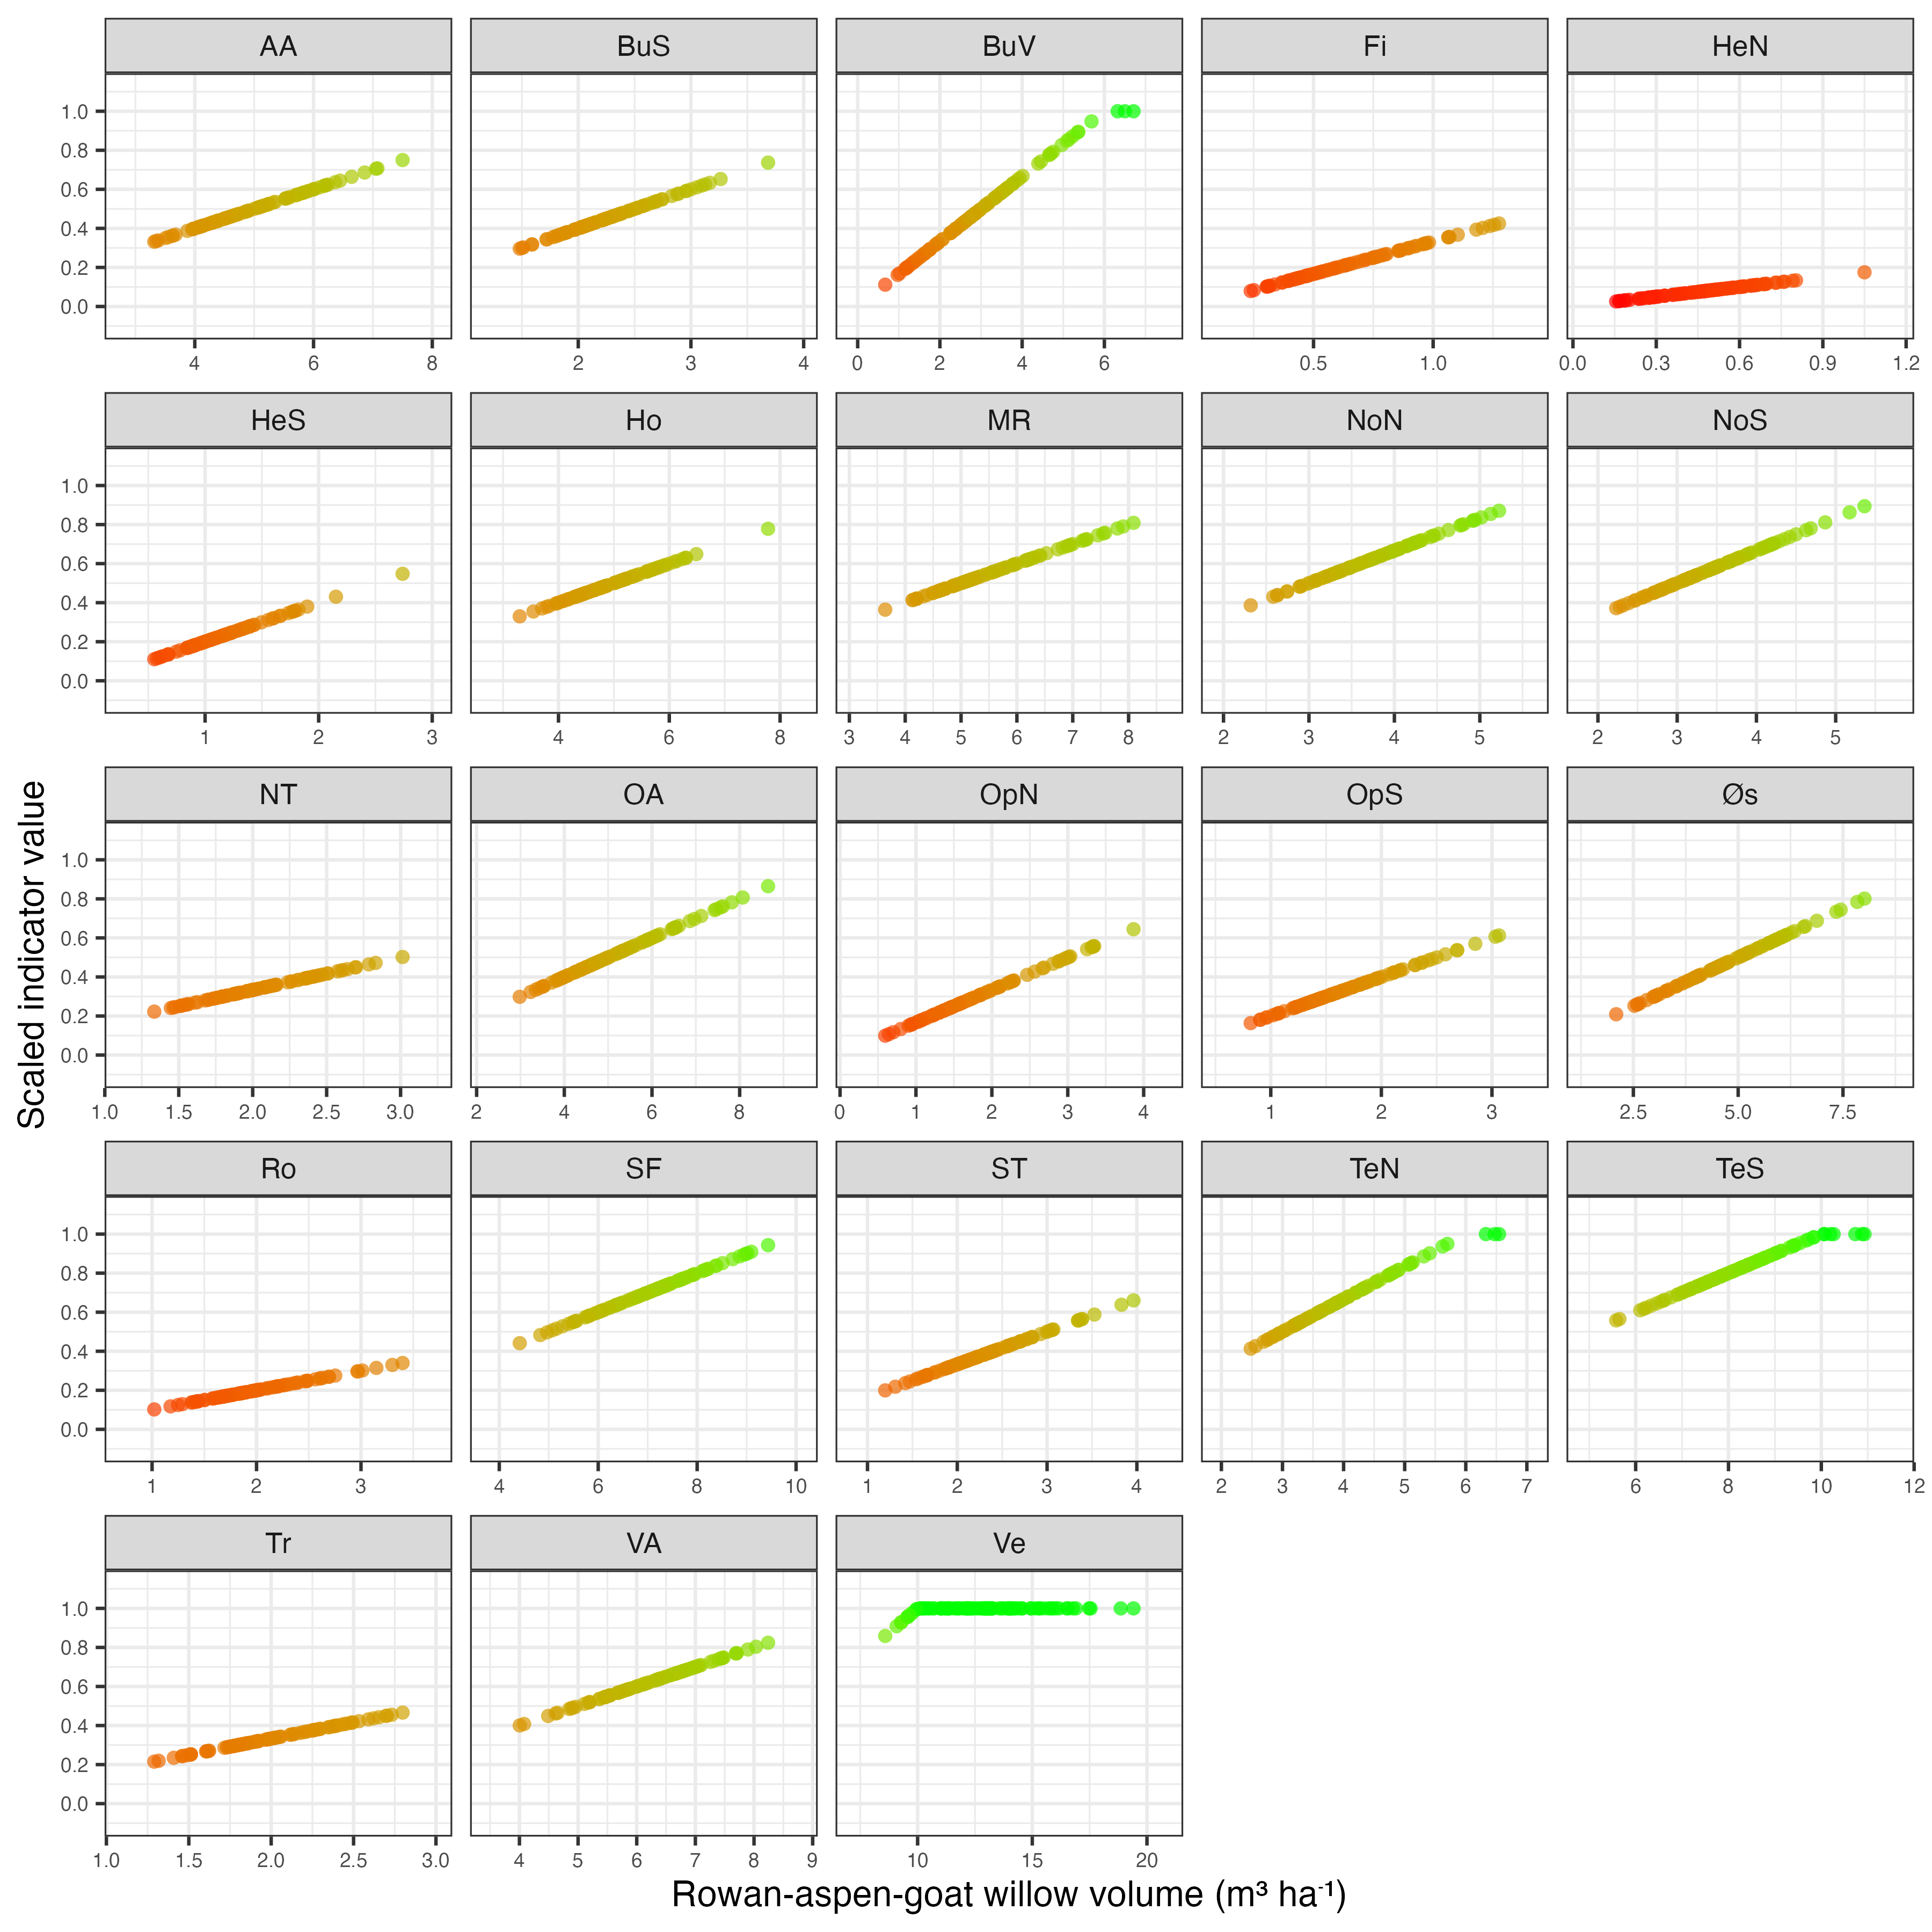
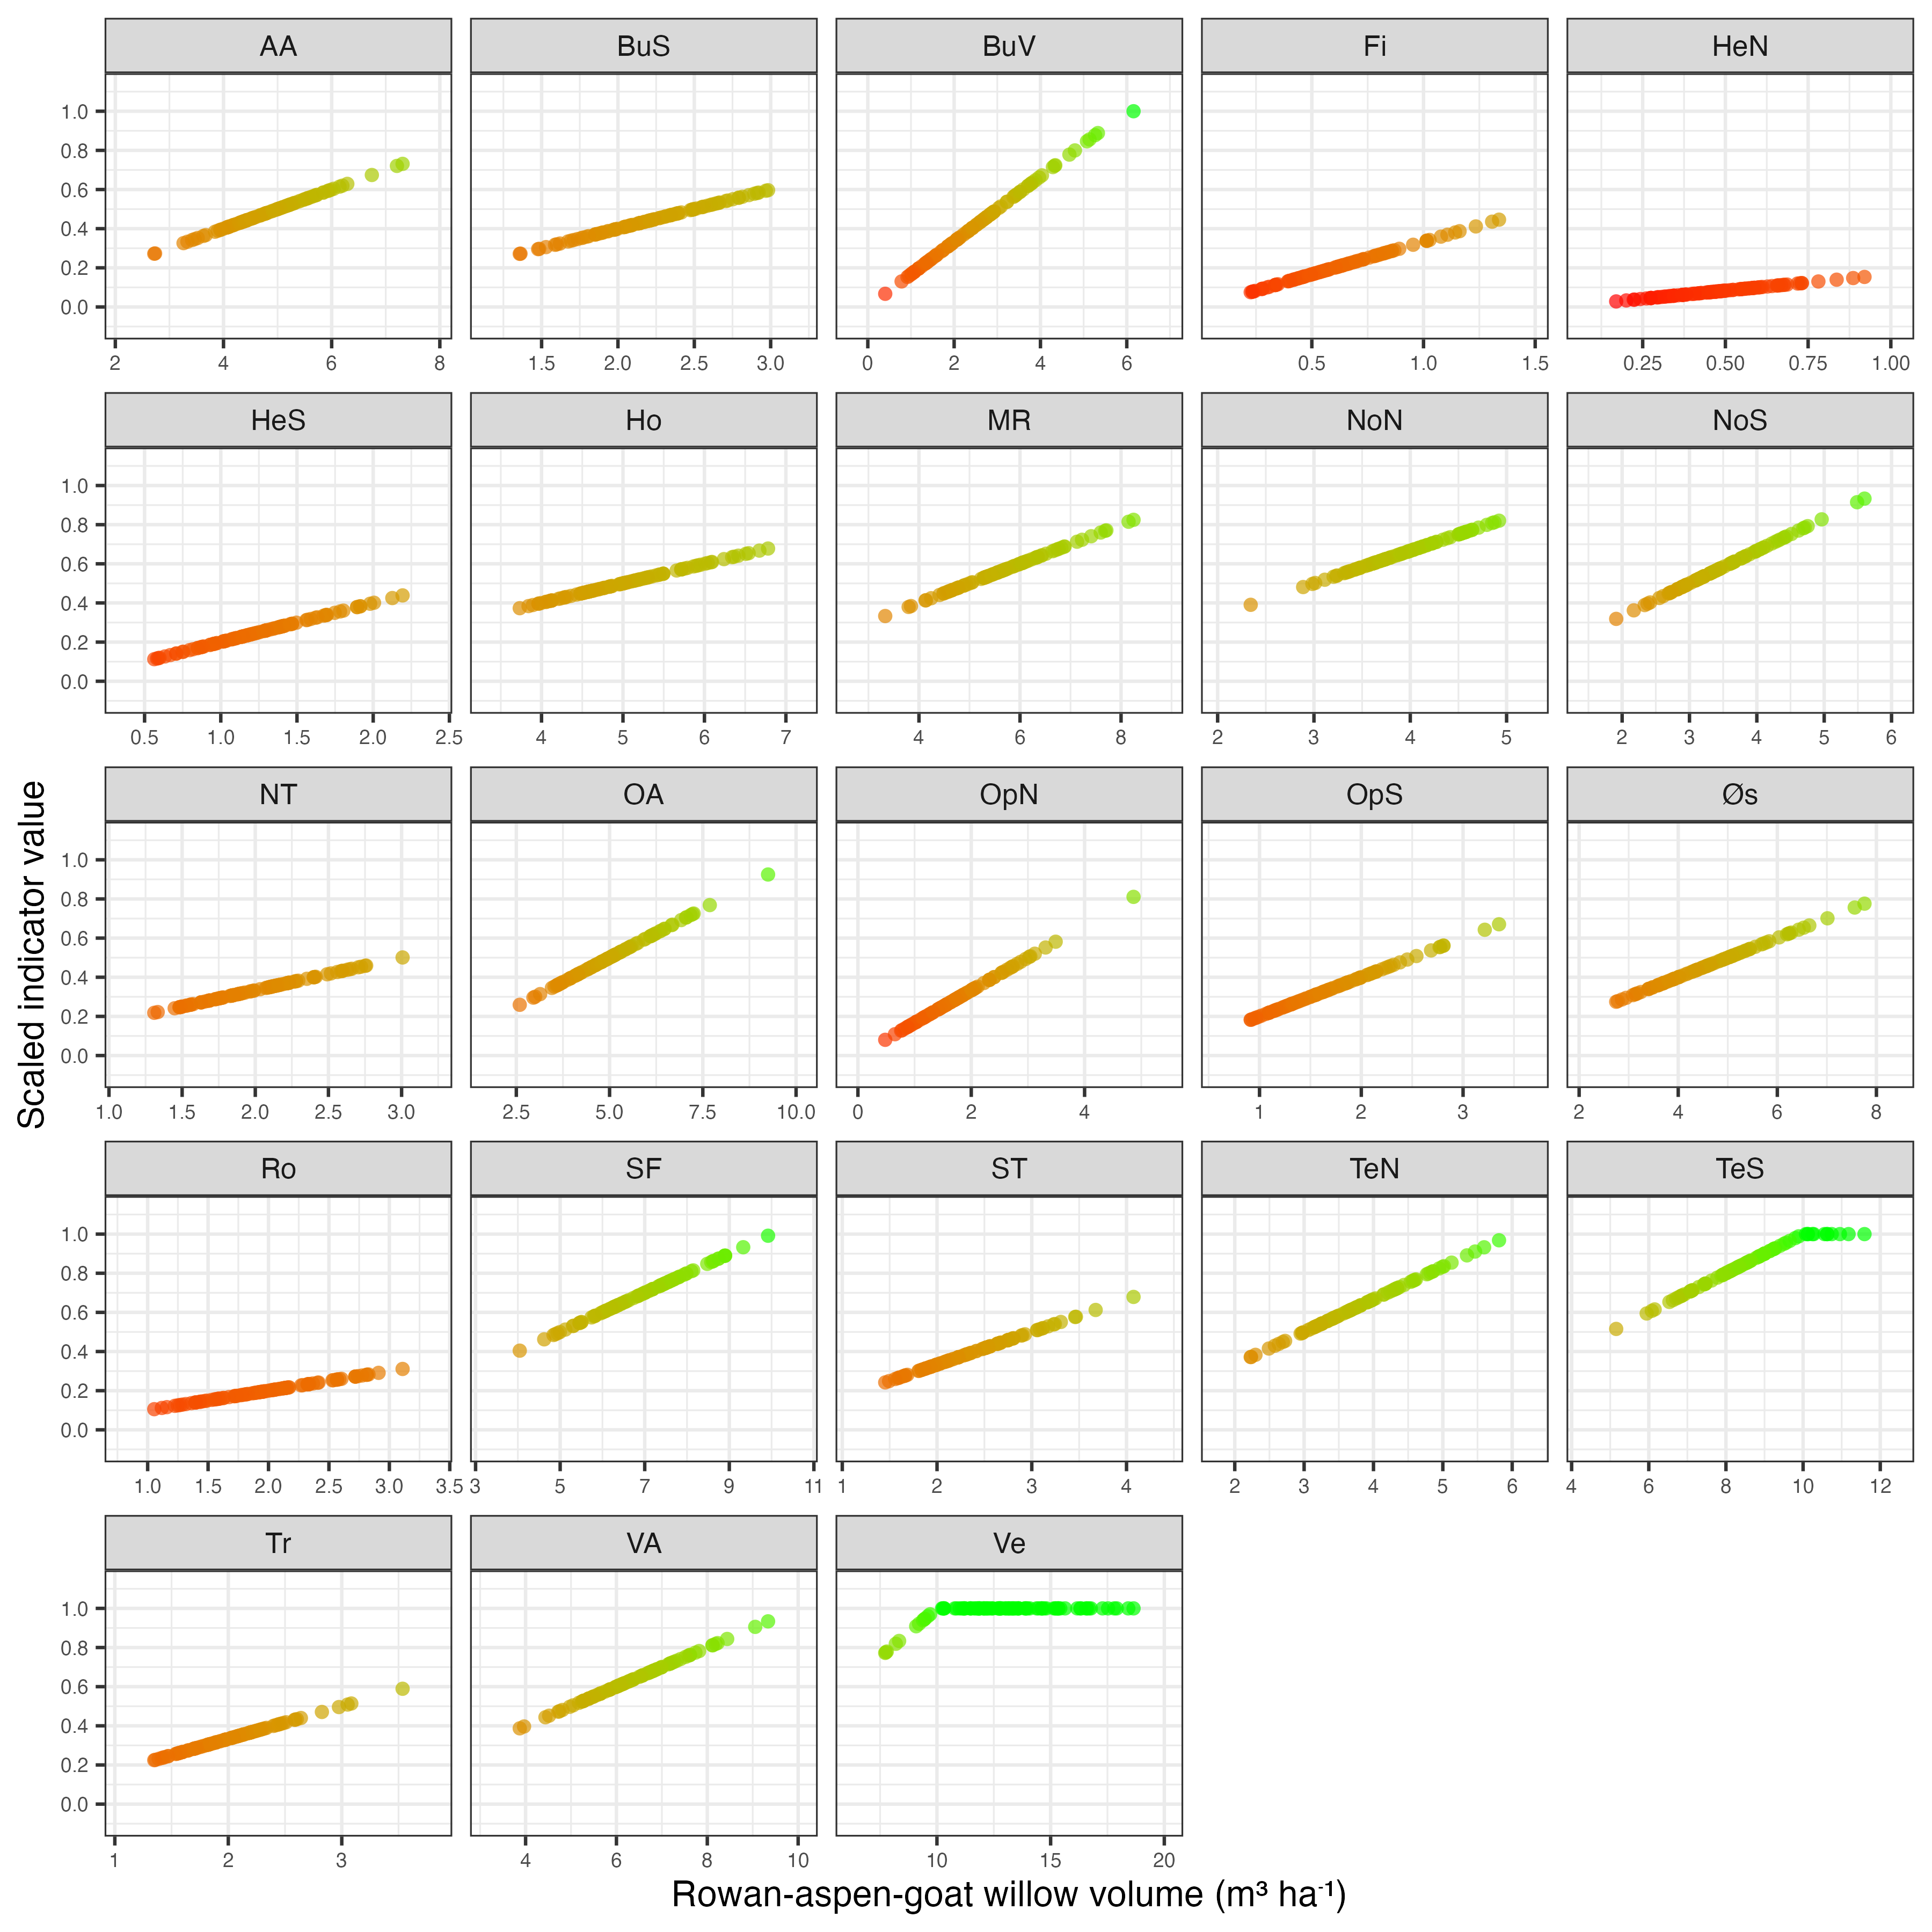
Update author information and citation format in NO_ROSE_001 files
- Added authors Ken Olaf Storaunet and Ulrika Jansson Asplund with their affiliations in both HTML and QMD files.
- Updated the recommended citation format to reflect the new author order.
- Revised data loading code to use the latest data file and improved comments for clarity.
- Enhanced summary table captions to include confidence intervals for better data representation.

diff --git a/R/NO_ROSE_001.html b/R/NO_ROSE_001.html
@@ -6,8 +6,9 @@
 
 <meta name="viewport" content="width=device-width, initial-scale=1.0, user-scalable=yes">
 
+<meta name="author" content="Ken Olaf Storaunet">
+<meta name="author" content="Ulrika Jansson Asplund">
 <meta name="author" content="Erik Framstad">
-<meta name="author" content="Ken Olav Storaunet">
 <meta name="author" content="Oliver Snoksrud">
 <meta name="author" content="Aud Helen Halbritter">
 <meta name="dcterms.date" content="2026-05-07">
@@ -2546,7 +2547,15 @@ border: 0;
   <div class="quarto-title-meta-heading">Affiliations</div>
   
     <div class="quarto-title-meta-contents">
-    <p class="author">Erik Framstad <a href="mailto:[email redacted]" class="quarto-title-author-email"><i class="bi bi-envelope"></i></a> </p>
+    <p class="author">Ken Olaf Storaunet </p>
+  </div>
+  <div class="quarto-title-meta-contents">
+        <p class="affiliation">
+            Norwegian Institute of Bioeconomy Research
+          </p>
+      </div>
+    <div class="quarto-title-meta-contents">
+    <p class="author">Ulrika Jansson Asplund </p>
   </div>
   <div class="quarto-title-meta-contents">
         <p class="affiliation">
@@ -2554,11 +2563,11 @@ border: 0;
           </p>
       </div>
     <div class="quarto-title-meta-contents">
-    <p class="author">Ken Olav Storaunet </p>
+    <p class="author">Erik Framstad <a href="mailto:[email redacted]" class="quarto-title-author-email"><i class="bi bi-envelope"></i></a> </p>
   </div>
   <div class="quarto-title-meta-contents">
         <p class="affiliation">
-            Norwegian Institute of Bioeconomy Research
+            Norwegian Institute for Nature Research
           </p>
       </div>
     <div class="quarto-title-meta-contents">
@@ -2656,7 +2665,7 @@ Caused by warning:
 </div>
 </div>
 <blockquote class="blockquote">
-<p><strong>Recommended citation</strong>: Framstad, E., Storaunet, K. O., Snoksrud, O. and Halbritter, A. H. 2026. Rowan-aspen-goat willow volume (ID(s): NO_ROSE_001) v. 000.001. ecRxiv: https://github.com/NINAnor/ecRxiv/tree/main/indicators/NO_ROSE_001</p>
+<p><strong>Recommended citation</strong>: Storaunet, K. O., Jansson Asplund, U., Framstad, E., Snoksrud, O., and Halbritter, A. H. 2026. Rowan-aspen-goat willow volume (ID(s): NO_ROSE_001) v. 000.001. ecRxiv: https://github.com/NINAnor/ecRxiv/tree/main/indicators/NO_ROSE_001</p>
 </blockquote>
 <div class="callout callout-style-default callout-tip no-icon callout-titled">
 <div class="callout-header d-flex align-content-center collapsed" data-bs-toggle="collapse" data-bs-target=".callout-1-contents" aria-controls="callout-1" aria-expanded="false" aria-label="Toggle callout">
@@ -2905,27 +2914,14 @@ For example, and indicator called 'Trenching in mires' could be made to represen
 <div class="cell">
 <details class="code-fold">
 <summary>Load data</summary>
-<div class="code-copy-outer-scaffold"><div class="sourceCode cell-code" id="cb2"><pre class="sourceCode r code-with-copy"><code class="sourceCode r"><span id="cb2-1"><a href="#cb2-1" aria-hidden="true" tabindex="-1"></a><span class="co"># Load main data file</span></span>
-<span id="cb2-2"><a href="#cb2-2" aria-hidden="true" tabindex="-1"></a><span class="co"># This export wraps each physical line in an extra pair of double quotes, so a</span></span>
-<span id="cb2-3"><a href="#cb2-3" aria-hidden="true" tabindex="-1"></a><span class="co"># single read_csv() sees one column spanning the whole file. Read once as one</span></span>
-<span id="cb2-4"><a href="#cb2-4" aria-hidden="true" tabindex="-1"></a><span class="co"># character column per line (readr unwraps the outer quotes), then parse the</span></span>
-<span id="cb2-5"><a href="#cb2-5" aria-hidden="true" tabindex="-1"></a><span class="co"># inner CSV text.</span></span>
-<span id="cb2-6"><a href="#cb2-6" aria-hidden="true" tabindex="-1"></a>lsk_inner_csv <span class="ot">&lt;-</span> <span class="fu">read_csv</span>(</span>
-<span id="cb2-7"><a href="#cb2-7" aria-hidden="true" tabindex="-1"></a>  <span class="fu">here</span>(<span class="st">&quot;data/LSK_data_okologisk_tilstand_2026.csv&quot;</span>),</span>
-<span id="cb2-8"><a href="#cb2-8" aria-hidden="true" tabindex="-1"></a>  <span class="at">col_names =</span> <span class="cn">FALSE</span>,</span>
-<span id="cb2-9"><a href="#cb2-9" aria-hidden="true" tabindex="-1"></a>  <span class="at">show_col_types =</span> <span class="cn">FALSE</span>,</span>
-<span id="cb2-10"><a href="#cb2-10" aria-hidden="true" tabindex="-1"></a>  <span class="at">locale =</span> <span class="fu">locale</span>(<span class="at">encoding =</span> <span class="st">&quot;UTF-8&quot;</span>),</span>
-<span id="cb2-11"><a href="#cb2-11" aria-hidden="true" tabindex="-1"></a>  <span class="at">col_types =</span> <span class="fu">cols</span>(<span class="at">.default =</span> <span class="fu">col_character</span>())</span>
-<span id="cb2-12"><a href="#cb2-12" aria-hidden="true" tabindex="-1"></a>) <span class="sc">|&gt;</span></span>
-<span id="cb2-13"><a href="#cb2-13" aria-hidden="true" tabindex="-1"></a>  <span class="fu">pull</span>(<span class="dv">1</span>) <span class="sc">|&gt;</span></span>
-<span id="cb2-14"><a href="#cb2-14" aria-hidden="true" tabindex="-1"></a>  <span class="fu">paste</span>(<span class="at">collapse =</span> <span class="st">&quot;</span><span class="sc">\n</span><span class="st">&quot;</span>)</span>
-<span id="cb2-15"><a href="#cb2-15" aria-hidden="true" tabindex="-1"></a></span>
-<span id="cb2-16"><a href="#cb2-16" aria-hidden="true" tabindex="-1"></a>lsk_data_raw <span class="ot">&lt;-</span> <span class="fu">read_csv</span>(</span>
-<span id="cb2-17"><a href="#cb2-17" aria-hidden="true" tabindex="-1"></a>  <span class="fu">I</span>(lsk_inner_csv),</span>
-<span id="cb2-18"><a href="#cb2-18" aria-hidden="true" tabindex="-1"></a>  <span class="at">show_col_types =</span> <span class="cn">FALSE</span>,</span>
-<span id="cb2-19"><a href="#cb2-19" aria-hidden="true" tabindex="-1"></a>  <span class="at">locale =</span> <span class="fu">locale</span>(<span class="at">encoding =</span> <span class="st">&quot;UTF-8&quot;</span>)</span>
-<span id="cb2-20"><a href="#cb2-20" aria-hidden="true" tabindex="-1"></a>) <span class="sc">|&gt;</span></span>
-<span id="cb2-21"><a href="#cb2-21" aria-hidden="true" tabindex="-1"></a>  <span class="fu">clean_names</span>()</span></code></pre></div><button title="Copy to Clipboard" class="code-copy-button"><i class="bi"></i></button></div>
+<div class="code-copy-outer-scaffold"><div class="sourceCode cell-code" id="cb2"><pre class="sourceCode r code-with-copy"><code class="sourceCode r"><span id="cb2-1"><a href="#cb2-1" aria-hidden="true" tabindex="-1"></a>lsk_data_file <span class="ot">&lt;-</span> <span class="fu">here</span>(<span class="st">&quot;data/LSK_data_okologisk_tilstand_2026-06-03.csv&quot;</span>)</span>
+<span id="cb2-2"><a href="#cb2-2" aria-hidden="true" tabindex="-1"></a></span>
+<span id="cb2-3"><a href="#cb2-3" aria-hidden="true" tabindex="-1"></a>lsk_data_raw <span class="ot">&lt;-</span> <span class="fu">read_csv</span>(</span>
+<span id="cb2-4"><a href="#cb2-4" aria-hidden="true" tabindex="-1"></a>  lsk_data_file,</span>
+<span id="cb2-5"><a href="#cb2-5" aria-hidden="true" tabindex="-1"></a>  <span class="at">show_col_types =</span> <span class="cn">FALSE</span>,</span>
+<span id="cb2-6"><a href="#cb2-6" aria-hidden="true" tabindex="-1"></a>  <span class="at">locale =</span> <span class="fu">locale</span>(<span class="at">encoding =</span> <span class="st">&quot;UTF-8&quot;</span>)</span>
+<span id="cb2-7"><a href="#cb2-7" aria-hidden="true" tabindex="-1"></a>) <span class="sc">|&gt;</span></span>
+<span id="cb2-8"><a href="#cb2-8" aria-hidden="true" tabindex="-1"></a>  <span class="fu">clean_names</span>()</span></code></pre></div><button title="Copy to Clipboard" class="code-copy-button"><i class="bi"></i></button></div>
 </details>
 </div>
 </section>
@@ -2950,7 +2946,7 @@ For example, and indicator called 'Trenching in mires' could be made to represen
 <span id="cb3-6"><a href="#cb3-6" aria-hidden="true" tabindex="-1"></a>)</span></code></pre></div><button title="Copy to Clipboard" class="code-copy-button"><i class="bi"></i></button></div>
 </details>
 </div>
-<p>Next we filter the raw dataset to include both productive and unproductive forest plots (<code>arealtype</code> 1 and 12), remove records missing in <code>ros_10_prha</code>, and standardise the county names. Area-weighted values are created using <code>indicator_continuous_weighted = ros_10_prha * au_areal</code>.</p>
+<p>Next we filter the raw dataset to include both productive and unproductive forest plots (<code>arealtype</code> 1 and 12) and standardise the county names. Area-weighted values are created using <code>indicator_continuous_weighted = ros_10_prha * au_areal</code>.</p>
 <div class="cell">
 <details class="code-fold">
 <summary>Create derived variables</summary>
@@ -2959,31 +2955,29 @@ For example, and indicator called 'Trenching in mires' could be made to represen
 <span id="cb4-3"><a href="#cb4-3" aria-hidden="true" tabindex="-1"></a>    <span class="co"># productive and unproductive forest plots</span></span>
 <span id="cb4-4"><a href="#cb4-4" aria-hidden="true" tabindex="-1"></a>    arealtype <span class="sc">%in%</span> <span class="fu">c</span>(<span class="dv">1</span>, <span class="dv">12</span>)</span>
 <span id="cb4-5"><a href="#cb4-5" aria-hidden="true" tabindex="-1"></a>  ) <span class="sc">|&gt;</span></span>
-<span id="cb4-6"><a href="#cb4-6" aria-hidden="true" tabindex="-1"></a>  <span class="co"># remove records with missing data on rowan-aspen-goat willow volume</span></span>
-<span id="cb4-7"><a href="#cb4-7" aria-hidden="true" tabindex="-1"></a>  <span class="fu">filter</span>(<span class="sc">!</span><span class="fu">is.na</span>(ros_10_prha)) <span class="sc">|&gt;</span></span>
-<span id="cb4-8"><a href="#cb4-8" aria-hidden="true" tabindex="-1"></a>  <span class="fu">mutate</span>(</span>
-<span id="cb4-9"><a href="#cb4-9" aria-hidden="true" tabindex="-1"></a>    <span class="at">fylke_name =</span> region_fylke <span class="sc">|&gt;</span></span>
-<span id="cb4-10"><a href="#cb4-10" aria-hidden="true" tabindex="-1"></a>      stringr<span class="sc">::</span><span class="fu">str_remove</span>(<span class="st">&quot;^</span><span class="sc">\\</span><span class="st">d+-</span><span class="sc">\\</span><span class="st">d+</span><span class="sc">\\</span><span class="st">s+&quot;</span>) <span class="sc">|&gt;</span></span>
-<span id="cb4-11"><a href="#cb4-11" aria-hidden="true" tabindex="-1"></a>      stringr<span class="sc">::</span><span class="fu">str_remove</span>(<span class="st">&quot;^</span><span class="sc">\\</span><span class="st">d+</span><span class="sc">\\</span><span class="st">s*&quot;</span>) <span class="sc">|&gt;</span></span>
-<span id="cb4-12"><a href="#cb4-12" aria-hidden="true" tabindex="-1"></a>      stringr<span class="sc">::</span><span class="fu">str_squish</span>(),</span>
-<span id="cb4-13"><a href="#cb4-13" aria-hidden="true" tabindex="-1"></a>    <span class="at">county_part =</span> <span class="fu">assign_bbca_county_part</span>(fylke_name),</span>
-<span id="cb4-14"><a href="#cb4-14" aria-hidden="true" tabindex="-1"></a>    <span class="at">fylke_name_clean =</span> stringi<span class="sc">::</span><span class="fu">stri_trans_general</span>(</span>
-<span id="cb4-15"><a href="#cb4-15" aria-hidden="true" tabindex="-1"></a>      stringr<span class="sc">::</span><span class="fu">str_squish</span>(</span>
-<span id="cb4-16"><a href="#cb4-16" aria-hidden="true" tabindex="-1"></a>        <span class="fu">tolower</span>(</span>
-<span id="cb4-17"><a href="#cb4-17" aria-hidden="true" tabindex="-1"></a>          stringr<span class="sc">::</span><span class="fu">str_replace_all</span>(</span>
-<span id="cb4-18"><a href="#cb4-18" aria-hidden="true" tabindex="-1"></a>            <span class="fu">normalize_county_parts</span>(fylke_name),</span>
-<span id="cb4-19"><a href="#cb4-19" aria-hidden="true" tabindex="-1"></a>            <span class="st">&quot;[0-9.-]&quot;</span>,</span>
-<span id="cb4-20"><a href="#cb4-20" aria-hidden="true" tabindex="-1"></a>            <span class="st">&quot; &quot;</span></span>
-<span id="cb4-21"><a href="#cb4-21" aria-hidden="true" tabindex="-1"></a>          )</span>
-<span id="cb4-22"><a href="#cb4-22" aria-hidden="true" tabindex="-1"></a>        )</span>
-<span id="cb4-23"><a href="#cb4-23" aria-hidden="true" tabindex="-1"></a>      ),</span>
-<span id="cb4-24"><a href="#cb4-24" aria-hidden="true" tabindex="-1"></a>      <span class="st">&quot;Latin-ASCII&quot;</span></span>
-<span id="cb4-25"><a href="#cb4-25" aria-hidden="true" tabindex="-1"></a>    ),</span>
-<span id="cb4-26"><a href="#cb4-26" aria-hidden="true" tabindex="-1"></a>    <span class="at">region_code =</span> <span class="fu">assign_region_code</span>(fylke_name_clean),</span>
-<span id="cb4-27"><a href="#cb4-27" aria-hidden="true" tabindex="-1"></a>    <span class="at">region_name =</span> <span class="fu">assign_region_name</span>(region_code),</span>
-<span id="cb4-28"><a href="#cb4-28" aria-hidden="true" tabindex="-1"></a></span>
-<span id="cb4-29"><a href="#cb4-29" aria-hidden="true" tabindex="-1"></a>    <span class="at">indicator_continuous_weighted =</span> ros_10_prha <span class="sc">*</span> au_areal</span>
-<span id="cb4-30"><a href="#cb4-30" aria-hidden="true" tabindex="-1"></a>  )</span></code></pre></div><button title="Copy to Clipboard" class="code-copy-button"><i class="bi"></i></button></div>
+<span id="cb4-6"><a href="#cb4-6" aria-hidden="true" tabindex="-1"></a>  <span class="fu">mutate</span>(</span>
+<span id="cb4-7"><a href="#cb4-7" aria-hidden="true" tabindex="-1"></a>    <span class="at">fylke_name =</span> region_fylke <span class="sc">|&gt;</span></span>
+<span id="cb4-8"><a href="#cb4-8" aria-hidden="true" tabindex="-1"></a>      stringr<span class="sc">::</span><span class="fu">str_remove</span>(<span class="st">&quot;^</span><span class="sc">\\</span><span class="st">d+-</span><span class="sc">\\</span><span class="st">d+</span><span class="sc">\\</span><span class="st">s+&quot;</span>) <span class="sc">|&gt;</span></span>
+<span id="cb4-9"><a href="#cb4-9" aria-hidden="true" tabindex="-1"></a>      stringr<span class="sc">::</span><span class="fu">str_remove</span>(<span class="st">&quot;^</span><span class="sc">\\</span><span class="st">d+</span><span class="sc">\\</span><span class="st">s*&quot;</span>) <span class="sc">|&gt;</span></span>
+<span id="cb4-10"><a href="#cb4-10" aria-hidden="true" tabindex="-1"></a>      stringr<span class="sc">::</span><span class="fu">str_squish</span>(),</span>
+<span id="cb4-11"><a href="#cb4-11" aria-hidden="true" tabindex="-1"></a>    <span class="at">county_part =</span> <span class="fu">assign_bbca_county_part</span>(fylke_name),</span>
+<span id="cb4-12"><a href="#cb4-12" aria-hidden="true" tabindex="-1"></a>    <span class="at">fylke_name_clean =</span> stringi<span class="sc">::</span><span class="fu">stri_trans_general</span>(</span>
+<span id="cb4-13"><a href="#cb4-13" aria-hidden="true" tabindex="-1"></a>      stringr<span class="sc">::</span><span class="fu">str_squish</span>(</span>
+<span id="cb4-14"><a href="#cb4-14" aria-hidden="true" tabindex="-1"></a>        <span class="fu">tolower</span>(</span>
+<span id="cb4-15"><a href="#cb4-15" aria-hidden="true" tabindex="-1"></a>          stringr<span class="sc">::</span><span class="fu">str_replace_all</span>(</span>
+<span id="cb4-16"><a href="#cb4-16" aria-hidden="true" tabindex="-1"></a>            <span class="fu">normalize_county_parts</span>(fylke_name),</span>
+<span id="cb4-17"><a href="#cb4-17" aria-hidden="true" tabindex="-1"></a>            <span class="st">&quot;[0-9.-]&quot;</span>,</span>
+<span id="cb4-18"><a href="#cb4-18" aria-hidden="true" tabindex="-1"></a>            <span class="st">&quot; &quot;</span></span>
+<span id="cb4-19"><a href="#cb4-19" aria-hidden="true" tabindex="-1"></a>          )</span>
+<span id="cb4-20"><a href="#cb4-20" aria-hidden="true" tabindex="-1"></a>        )</span>
+<span id="cb4-21"><a href="#cb4-21" aria-hidden="true" tabindex="-1"></a>      ),</span>
+<span id="cb4-22"><a href="#cb4-22" aria-hidden="true" tabindex="-1"></a>      <span class="st">&quot;Latin-ASCII&quot;</span></span>
+<span id="cb4-23"><a href="#cb4-23" aria-hidden="true" tabindex="-1"></a>    ),</span>
+<span id="cb4-24"><a href="#cb4-24" aria-hidden="true" tabindex="-1"></a>    <span class="at">region_code =</span> <span class="fu">assign_region_code</span>(fylke_name_clean),</span>
+<span id="cb4-25"><a href="#cb4-25" aria-hidden="true" tabindex="-1"></a>    <span class="at">region_name =</span> <span class="fu">assign_region_name</span>(region_code),</span>
+<span id="cb4-26"><a href="#cb4-26" aria-hidden="true" tabindex="-1"></a></span>
+<span id="cb4-27"><a href="#cb4-27" aria-hidden="true" tabindex="-1"></a>    <span class="at">indicator_continuous_weighted =</span> ros_10_prha <span class="sc">*</span> au_areal</span>
+<span id="cb4-28"><a href="#cb4-28" aria-hidden="true" tabindex="-1"></a>  )</span></code></pre></div><button title="Copy to Clipboard" class="code-copy-button"><i class="bi"></i></button></div>
 </details>
 </div>
 <p>Finally, we retain only the columns required for subsequent aggregation and reporting.</p>
@@ -3027,7 +3021,7 @@ For example, and indicator called 'Trenching in mires' could be made to represen
 <section id="bootstrap-draws-per-county" class="level3">
 <h3 class="anchored" data-anchor-id="bootstrap-draws-per-county">9.3 Bootstrap draws per county</h3>
 <p>For each county and period, NFI plots are resampled with replacement 1000 times. Each replicate computes the area-weighted mean non-scaled indicator value, giving a distribution of 1000 draws per county.</p>
-<div class="cell" data-cache.extra="&quot;2026-05-29 10:28:25&quot;">
+<div class="cell" data-cache.extra="&quot;2026-06-12 16:37:26&quot;">
 <details class="code-fold">
 <summary>Bootstrap draws per county (1000 per county per period)</summary>
 <div class="code-copy-outer-scaffold"><div class="sourceCode cell-code" id="cb7"><pre class="sourceCode r code-with-copy"><code class="sourceCode r"><span id="cb7-1"><a href="#cb7-1" aria-hidden="true" tabindex="-1"></a>county_draws_long <span class="ot">&lt;-</span> purrr<span class="sc">::</span><span class="fu">imap_dfr</span>(rose_results, <span class="cf">function</span>(period_result, period_name) {</span>
@@ -3050,12 +3044,12 @@ For example, and indicator called 'Trenching in mires' could be made to represen
 <span id="cb7-18"><a href="#cb7-18" aria-hidden="true" tabindex="-1"></a>})</span></code></pre></div><button title="Copy to Clipboard" class="code-copy-button"><i class="bi"></i></button></div>
 </details>
 </div>
-<p>The table below (<a href="#tbl-rose-county-nonscaled-latest" class="quarto-xref">Table 2</a>) summarises the non-scaled bootstrap draws for the latest reporting period (<code>2020-2024</code>): the median area-weighted rowan-aspen-goat willow volume per county or sub-county.</p>
+<p>The table below (<a href="#tbl-rose-county-nonscaled-latest" class="quarto-xref">Table 2</a>) summarises the non-scaled bootstrap draws for the latest reporting period (<code>2020-2024</code>): the median area-weighted rowan-aspen-goat willow volume per county or sub-county, with approximate 95% and interquartile intervals from the bootstrap distribution.</p>
 <div class="cell">
 <div id="tbl-rose-county-nonscaled-latest" class="cell quarto-float quarto-figure quarto-figure-center anchored">
 <figure class="quarto-float quarto-float-tbl figure">
 <figcaption class="quarto-float-caption-top quarto-float-caption quarto-float-tbl" id="tbl-rose-county-nonscaled-latest-caption-0ceaefa1-69ba-4598-a22c-09a6ac19f8ca">
-Table 2: Non-scaled, area-weighted rowan-aspen-goat willow volume by county or sub-county for reporting period 2020–2024 (median of 1000 bootstrap draws).
+Table 2: Non-scaled, area-weighted rowan-aspen-goat willow volume by county or sub-county for reporting period 2020–2024 (median of 1000 bootstrap draws, with approximate 95% and interquartile intervals).
 </figcaption>
 <div aria-describedby="tbl-rose-county-nonscaled-latest-caption-0ceaefa1-69ba-4598-a22c-09a6ac19f8ca">
 <div class="cell-output-display">
@@ -3068,6 +3062,8 @@ Table 2: Non-scaled, area-weighted rowan-aspen-goat willow volume by county or 
 <th style="text-align: left;" data-quarto-table-cell-role="th">Sub-county</th>
 <th style="text-align: left;" data-quarto-table-cell-role="th">Region</th>
 <th style="text-align: right;" data-quarto-table-cell-role="th">Non-scaled value (m³ ha⁻¹)</th>
+<th style="text-align: left;" data-quarto-table-cell-role="th">95% CI</th>
+<th style="text-align: left;" data-quarto-table-cell-role="th">50% CI</th>
 <th style="text-align: right;" data-quarto-table-cell-role="th">Total area (ha)</th>
 <th style="text-align: right;" data-quarto-table-cell-role="th">Number of plots</th>
 </tr>
@@ -3079,6 +3075,8 @@ Table 2: Non-scaled, area-weighted rowan-aspen-goat willow volume by county or 
 <td style="text-align: left;">BuS</td>
 <td style="text-align: left;">Øst</td>
 <td style="text-align: right;">2.33</td>
+<td style="text-align: left;">1.56 - 3.22</td>
+<td style="text-align: left;">2.06 - 2.62</td>
 <td style="text-align: right;">592584</td>
 <td style="text-align: right;">702</td>
 </tr>
@@ -3088,6 +3086,8 @@ Table 2: Non-scaled, area-weighted rowan-aspen-goat willow volume by county or 
 <td style="text-align: left;">BuV</td>
 <td style="text-align: left;">Øst</td>
 <td style="text-align: right;">2.70</td>
+<td style="text-align: left;">0.8 - 5.55</td>
+<td style="text-align: left;">1.88 - 3.55</td>
 <td style="text-align: right;">163220</td>
 <td style="text-align: right;">158</td>
 </tr>
@@ -3097,6 +3097,8 @@ Table 2: Non-scaled, area-weighted rowan-aspen-goat willow volume by county or 
 <td style="text-align: left;">HeN</td>
 <td style="text-align: left;">Øst</td>
 <td style="text-align: right;">0.49</td>
+<td style="text-align: left;">0.23 - 0.94</td>
+<td style="text-align: left;">0.38 - 0.64</td>
 <td style="text-align: right;">691849</td>
 <td style="text-align: right;">695</td>
 </tr>
@@ -3106,6 +3108,8 @@ Table 2: Non-scaled, area-weighted rowan-aspen-goat willow volume by county or 
 <td style="text-align: left;">HeS</td>
 <td style="text-align: left;">Øst</td>
 <td style="text-align: right;">1.25</td>
+<td style="text-align: left;">0.59 - 2.14</td>
+<td style="text-align: left;">1 - 1.54</td>
 <td style="text-align: right;">1008115</td>
 <td style="text-align: right;">1219</td>
 </tr>
@@ -3115,6 +3119,8 @@ Table 2: Non-scaled, area-weighted rowan-aspen-goat willow volume by county or 
 <td style="text-align: left;">OpN</td>
 <td style="text-align: left;">Øst</td>
 <td style="text-align: right;">1.91</td>
+<td style="text-align: left;">0.88 - 3.55</td>
+<td style="text-align: left;">1.52 - 2.43</td>
 <td style="text-align: right;">396361</td>
 <td style="text-align: right;">393</td>
 </tr>
@@ -3124,6 +3130,8 @@ Table 2: Non-scaled, area-weighted rowan-aspen-goat willow volume by county or 
 <td style="text-align: left;">OpS</td>
 <td style="text-align: left;">Øst</td>
 <td style="text-align: right;">1.41</td>
+<td style="text-align: left;">0.9 - 2.11</td>
+<td style="text-align: left;">1.22 - 1.65</td>
 <td style="text-align: right;">586828</td>
 <td style="text-align: right;">695</td>
 </tr>
@@ -3133,6 +3141,8 @@ Table 2: Non-scaled, area-weighted rowan-aspen-goat willow volume by county or 
 <td style="text-align: left;">OA</td>
 <td style="text-align: left;">Øst</td>
 <td style="text-align: right;">5.02</td>
+<td style="text-align: left;">3.26 - 7.55</td>
+<td style="text-align: left;">4.3 - 5.79</td>
 <td style="text-align: right;">344724</td>
 <td style="text-align: right;">428</td>
 </tr>
@@ -3142,6 +3152,8 @@ Table 2: Non-scaled, area-weighted rowan-aspen-goat willow volume by county or 
 <td style="text-align: left;">Ve</td>
 <td style="text-align: left;">Øst</td>
 <td style="text-align: right;">12.79</td>
+<td style="text-align: left;">7.89 - 18.38</td>
+<td style="text-align: left;">11.15 - 14.63</td>
 <td style="text-align: right;">140773</td>
 <td style="text-align: right;">176</td>
 </tr>
@@ -3151,6 +3163,8 @@ Table 2: Non-scaled, area-weighted rowan-aspen-goat willow volume by county or 
 <td style="text-align: left;">Øs</td>
 <td style="text-align: left;">Øst</td>
 <td style="text-align: right;">4.96</td>
+<td style="text-align: left;">3.12 - 7.44</td>
+<td style="text-align: left;">4.26 - 5.78</td>
 <td style="text-align: right;">270822</td>
 <td style="text-align: right;">329</td>
 </tr>
@@ -3160,6 +3174,8 @@ Table 2: Non-scaled, area-weighted rowan-aspen-goat willow volume by county or 
 <td style="text-align: left;">AA</td>
 <td style="text-align: left;">Sør</td>
 <td style="text-align: right;">5.11</td>
+<td style="text-align: left;">3.66 - 6.87</td>
+<td style="text-align: left;">4.58 - 5.69</td>
 <td style="text-align: right;">482602</td>
 <td style="text-align: right;">556</td>
 </tr>
@@ -3169,6 +3185,8 @@ Table 2: Non-scaled, area-weighted rowan-aspen-goat willow volume by county or 
 <td style="text-align: left;">TeN</td>
 <td style="text-align: left;">Sør</td>
 <td style="text-align: right;">4.06</td>
+<td style="text-align: left;">2.74 - 5.84</td>
+<td style="text-align: left;">3.56 - 4.65</td>
 <td style="text-align: right;">446133</td>
 <td style="text-align: right;">479</td>
 </tr>
@@ -3178,6 +3196,8 @@ Table 2: Non-scaled, area-weighted rowan-aspen-goat willow volume by county or 
 <td style="text-align: left;">TeS</td>
 <td style="text-align: left;">Sør</td>
 <td style="text-align: right;">8.44</td>
+<td style="text-align: left;">6.18 - 11</td>
+<td style="text-align: left;">7.67 - 9.4</td>
 <td style="text-align: right;">360495</td>
 <td style="text-align: right;">430</td>
 </tr>
@@ -3187,6 +3207,8 @@ Table 2: Non-scaled, area-weighted rowan-aspen-goat willow volume by county or 
 <td style="text-align: left;">VA</td>
 <td style="text-align: left;">Sør</td>
 <td style="text-align: right;">6.58</td>
+<td style="text-align: left;">4.88 - 8.68</td>
+<td style="text-align: left;">5.92 - 7.24</td>
 <td style="text-align: right;">405651</td>
 <td style="text-align: right;">443</td>
 </tr>
@@ -3196,6 +3218,8 @@ Table 2: Non-scaled, area-weighted rowan-aspen-goat willow volume by county or 
 <td style="text-align: left;">Ho</td>
 <td style="text-align: left;">Vest</td>
 <td style="text-align: right;">5.08</td>
+<td style="text-align: left;">3.83 - 6.63</td>
+<td style="text-align: left;">4.63 - 5.63</td>
 <td style="text-align: right;">455625</td>
 <td style="text-align: right;">518</td>
 </tr>
@@ -3205,6 +3229,8 @@ Table 2: Non-scaled, area-weighted rowan-aspen-goat willow volume by county or 
 <td style="text-align: left;">Ro</td>
 <td style="text-align: left;">Vest</td>
 <td style="text-align: right;">1.81</td>
+<td style="text-align: left;">1.16 - 2.56</td>
+<td style="text-align: left;">1.56 - 2.08</td>
 <td style="text-align: right;">260687</td>
 <td style="text-align: right;">262</td>
 </tr>
@@ -3214,6 +3240,8 @@ Table 2: Non-scaled, area-weighted rowan-aspen-goat willow volume by county or 
 <td style="text-align: left;">SF</td>
 <td style="text-align: left;">Vest</td>
 <td style="text-align: right;">7.22</td>
+<td style="text-align: left;">5.28 - 9.51</td>
+<td style="text-align: left;">6.53 - 8.02</td>
 <td style="text-align: right;">450108</td>
 <td style="text-align: right;">492</td>
 </tr>
@@ -3223,6 +3251,8 @@ Table 2: Non-scaled, area-weighted rowan-aspen-goat willow volume by county or 
 <td style="text-align: left;">MR</td>
 <td style="text-align: left;">Midt</td>
 <td style="text-align: right;">6.28</td>
+<td style="text-align: left;">4.9 - 8.02</td>
+<td style="text-align: left;">5.83 - 6.82</td>
 <td style="text-align: right;">449851</td>
 <td style="text-align: right;">504</td>
 </tr>
@@ -3232,6 +3262,8 @@ Table 2: Non-scaled, area-weighted rowan-aspen-goat willow volume by county or 
 <td style="text-align: left;">NT</td>
 <td style="text-align: left;">Midt</td>
 <td style="text-align: right;">2.16</td>
+<td style="text-align: left;">1.58 - 2.9</td>
+<td style="text-align: left;">1.96 - 2.41</td>
 <td style="text-align: right;">949703</td>
 <td style="text-align: right;">1129</td>
 </tr>
@@ -3241,6 +3273,8 @@ Table 2: Non-scaled, area-weighted rowan-aspen-goat willow volume by county or 
 <td style="text-align: left;">ST</td>
 <td style="text-align: left;">Midt</td>
 <td style="text-align: right;">2.58</td>
+<td style="text-align: left;">1.72 - 3.76</td>
+<td style="text-align: left;">2.21 - 2.97</td>
 <td style="text-align: right;">690333</td>
 <td style="text-align: right;">758</td>
 </tr>
@@ -3250,6 +3284,8 @@ Table 2: Non-scaled, area-weighted rowan-aspen-goat willow volume by county or 
 <td style="text-align: left;">Fi</td>
 <td style="text-align: left;">Nord</td>
 <td style="text-align: right;">0.72</td>
+<td style="text-align: left;">0.31 - 1.29</td>
+<td style="text-align: left;">0.55 - 0.89</td>
 <td style="text-align: right;">1051297</td>
 <td style="text-align: right;">241</td>
 </tr>
@@ -3259,6 +3295,8 @@ Table 2: Non-scaled, area-weighted rowan-aspen-goat willow volume by county or 
 <td style="text-align: left;">NoN</td>
 <td style="text-align: left;">Nord</td>
 <td style="text-align: right;">4.16</td>
+<td style="text-align: left;">3.17 - 5.45</td>
+<td style="text-align: left;">3.81 - 4.6</td>
 <td style="text-align: right;">645395</td>
 <td style="text-align: right;">682</td>
 </tr>
@@ -3268,6 +3306,8 @@ Table 2: Non-scaled, area-weighted rowan-aspen-goat willow volume by county or 
 <td style="text-align: left;">NoS</td>
 <td style="text-align: left;">Nord</td>
 <td style="text-align: right;">3.99</td>
+<td style="text-align: left;">2.8 - 5.53</td>
+<td style="text-align: left;">3.56 - 4.47</td>
 <td style="text-align: right;">500126</td>
 <td style="text-align: right;">521</td>
 </tr>
@@ -3277,6 +3317,8 @@ Table 2: Non-scaled, area-weighted rowan-aspen-goat willow volume by county or 
 <td style="text-align: left;">Tr</td>
 <td style="text-align: left;">Nord</td>
 <td style="text-align: right;">2.36</td>
+<td style="text-align: left;">1.76 - 3.03</td>
+<td style="text-align: left;">2.13 - 2.59</td>
 <td style="text-align: right;">728568</td>
 <td style="text-align: right;">797</td>
 </tr>